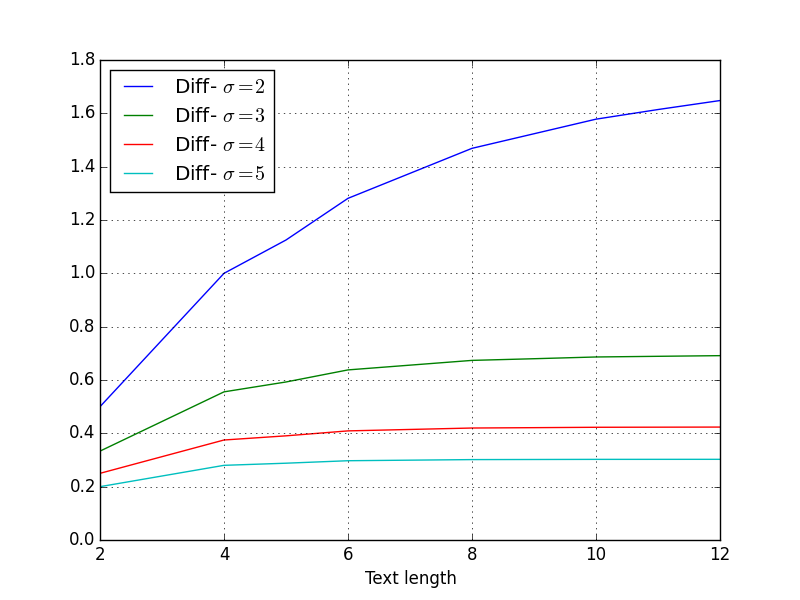
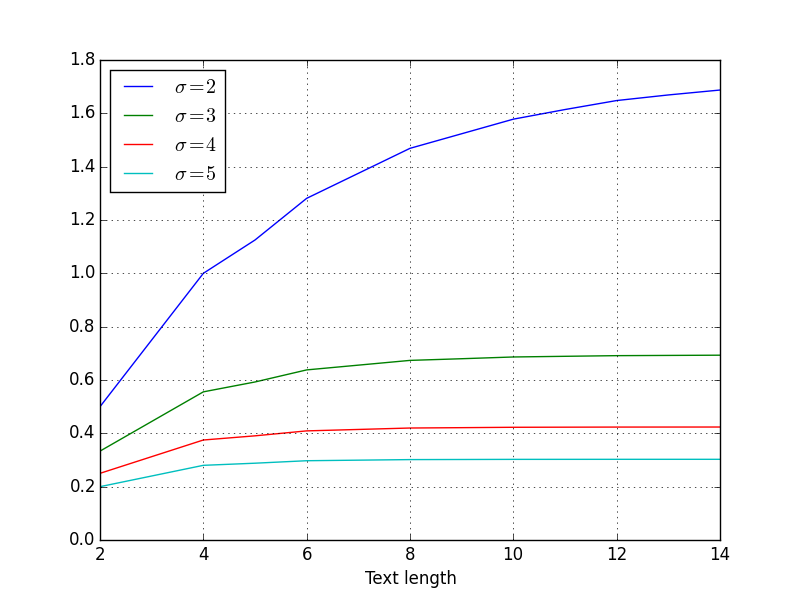
word length minus maximal borderless subword length for length 13, 14

diff --git a/src/py/graph.py b/src/py/graph.py
@@ -30,7 +30,7 @@ if __name__ == '__main__':
             lengths = sorted(counts[alphabet_size])
             values = map(lambda x: x - counts[alphabet_size].get(x) * 1.0 / alphabet_size ** x, lengths)
             print alphabet_size, ' ', ' '.join(map(lambda x: '{:.3f}'.format(x).rjust(6), values))
-            pl.plot(lengths, values, label='Diff- $\sigma = {}$'.format(alphabet_size))
+            pl.plot(lengths, values, label='$\sigma = {}$'.format(alphabet_size))
         pl.legend(loc=2)
         pl.grid()
         pl.xlabel('Text length')
